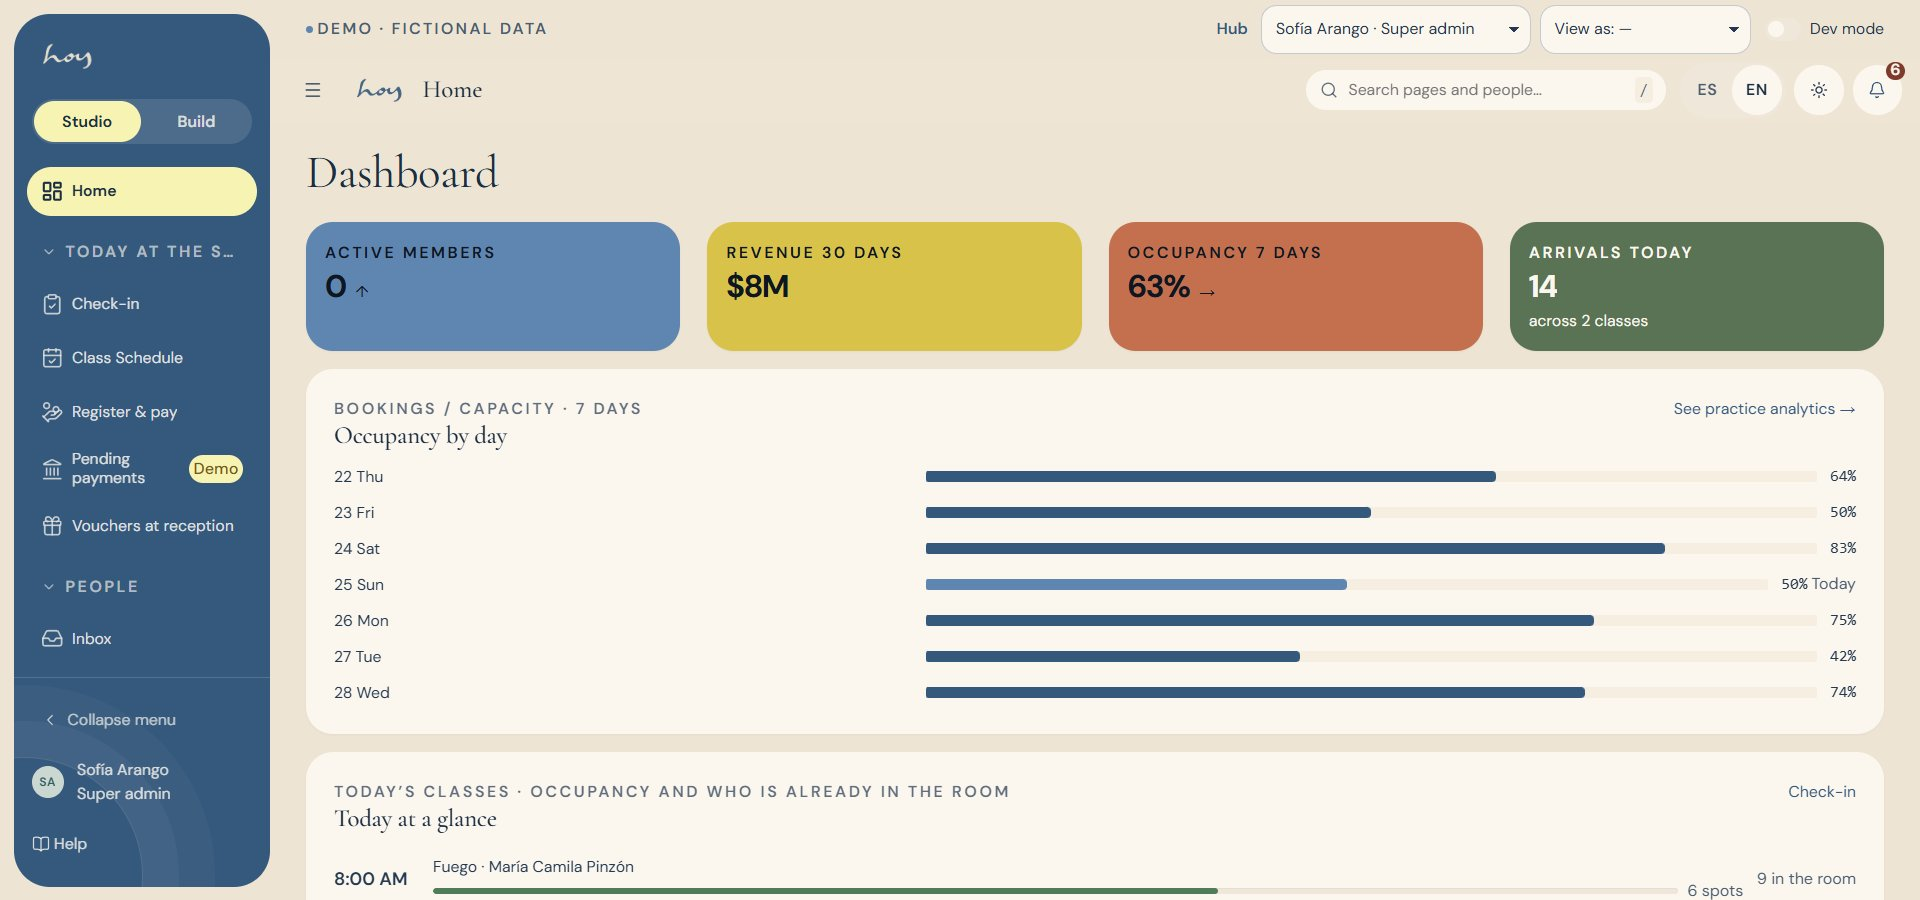
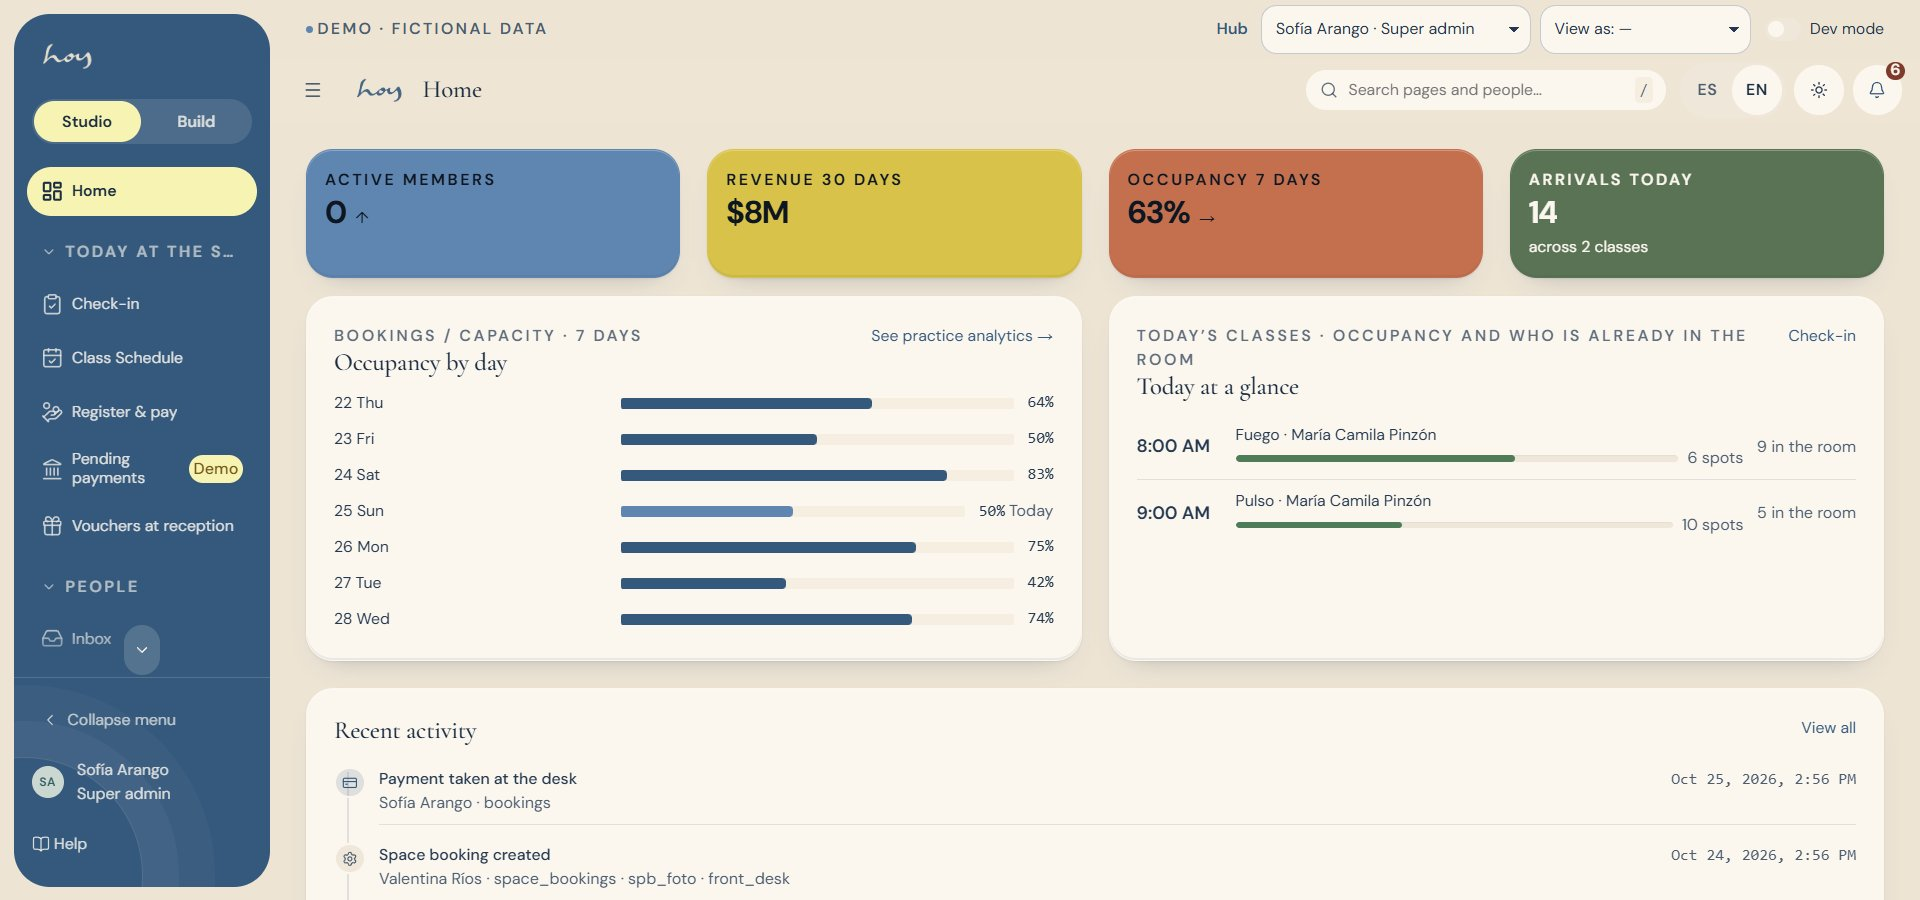
feat(shell): menu always on screen, no scrollbars, no in-page titles
DesktopShell (S-*, M-*, D-*): icon rail stays visible 600-1023 px (drawer only
on phones); the menu scrolls with a fade and chevrons instead of a scrollbar;
page-head titles and subtitles visually hidden since the top bar names the page.
Changelog 0165.

diff --git a/src/components/template/DesktopShell/DesktopShell.tsx b/src/components/template/DesktopShell/DesktopShell.tsx
@@ -1,4 +1,4 @@
-import { useCallback, useEffect, useLayoutEffect, useMemo, useId, useRef, useState, type ReactNode } from 'react';
+import { useCallback, useEffect, useLayoutEffect, useMemo, useId, useRef, useState, type ReactNode, type RefObject } from 'react';
 import { Link, NavLink, matchPath, useLocation } from 'react-router-dom';
 import type { RouteDef, Surface, NavBadge } from '../../../specs/types';
 import { useI18n } from '../../../i18n/I18nProvider';
@@ -68,16 +68,51 @@ const DEFAULT_FOLDED: Record<string, boolean> = {
 };
 const BADGE_TONE: Record<NavBadge, 'primary' | 'warn'> = { beta: 'primary', preview: 'warn' };
 
-/** True while the viewport is narrower than the drawer breakpoint (900 px). */
-function useNarrow() {
-  const [narrow, setNarrow] = useState(() => (typeof window !== 'undefined' ? window.matchMedia('(max-width: 900px)').matches : false));
+function useMedia(query: string) {
+  const [match, setMatch] = useState(() => (typeof window !== 'undefined' ? window.matchMedia(query).matches : false));
   useEffect(() => {
-    const mq = window.matchMedia('(max-width: 900px)');
-    const on = () => setNarrow(mq.matches);
+    const mq = window.matchMedia(query);
+    const on = () => setMatch(mq.matches);
+    on();
     mq.addEventListener('change', on);
     return () => mq.removeEventListener('change', on);
-  }, []);
-  return narrow;
+  }, [query]);
+  return match;
+}
+
+/**
+ * 0165 · the menu never leaves the screen on a tablet or a laptop: below 1024 px it is the icon rail (the ☰ opens the
+ * full column over the page); only a phone (< 600 px) hides it behind the ☰ as a drawer.
+ */
+function useShellMode() {
+  const phone = useMedia('(max-width: 599.98px)');
+  const compact = useMedia('(max-width: 1023.98px)');
+  return { phone, tablet: compact && !phone, overlay: compact };
+}
+
+/**
+ * 0165 · no scrollbar on the menu, in any state: the list still scrolls (wheel, touch, keyboard focus) and a soft fade
+ * plus a small chevron appear only at an edge that hides more items; the chevron scrolls one page that way.
+ */
+function useScrollEdges(ref: RefObject<HTMLElement>, deps: unknown[]) {
+  const [edges, setEdges] = useState({ up: false, down: false });
+  useEffect(() => {
+    const el = ref.current;
+    if (!el) return;
+    const measure = () => {
+      const up = el.scrollTop > 2, down = el.scrollTop + el.clientHeight < el.scrollHeight - 2;
+      setEdges((p) => (p.up === up && p.down === down ? p : { up, down }));
+    };
+    measure();
+    el.addEventListener('scroll', measure, { passive: true });
+    const ro = new ResizeObserver(measure);
+    ro.observe(el);
+    for (const child of el.children) ro.observe(child);
+    return () => { el.removeEventListener('scroll', measure); ro.disconnect(); };
+    // eslint-disable-next-line react-hooks/exhaustive-deps
+  }, deps);
+  const page = useCallback((dir: 1 | -1) => ref.current?.scrollBy({ top: dir * ref.current.clientHeight * 0.7, behavior: window.matchMedia('(prefers-reduced-motion: reduce)').matches ? 'auto' : 'smooth' }), [ref]);
+  return { edges, page };
 }
 
 /**
@@ -94,7 +129,7 @@ export function DesktopShell({ surfaces, routes, titleKey, children }: DesktopSh
   const { user, role, canDevMode, devMode, setDevMode, hasRole, can } = useSession();
   const { theme, toggleTheme } = useTheme();
   const { pathname } = useLocation();
-  const narrow = useNarrow();
+  const { phone, tablet, overlay } = useShellMode();
   const surfaceKey = surfaces[0] ?? 'desktop';
   const preferenceScope = `${KEY}.v2.${encodeURIComponent(user.id)}.${role}.${surfaceKey}`;
   const collapsedKey = `${preferenceScope}.collapsed`;
@@ -117,13 +152,14 @@ export function DesktopShell({ surfaces, routes, titleKey, children }: DesktopSh
 
   useEffect(() => { setDrawer(false); }, [pathname]);
 
-  const rail = collapsed && !narrow;
+  // A tablet shows the rail until the ☰ opens the full column over the page; a phone shows nothing until then.
+  const rail = tablet ? !drawer : collapsed && !phone;
 
   useEffect(() => {
     const side = sideRef.current;
     if (!side) return;
-    side.inert = narrow && !drawer;
-    if (!narrow || !drawer) return;
+    side.inert = phone && !drawer;
+    if (!overlay || !drawer) return;
     const focusable = () => [...side.querySelectorAll<HTMLElement>('a[href], button:not([disabled])')].filter((el) => el.getClientRects().length);
     focusable()[0]?.focus();
     const onKey = (event: KeyboardEvent) => {
@@ -137,11 +173,11 @@ export function DesktopShell({ surfaces, routes, titleKey, children }: DesktopSh
     };
     side.addEventListener('keydown', onKey);
     return () => side.removeEventListener('keydown', onKey);
-  }, [narrow, drawer]);
+  }, [phone, overlay, drawer]);
 
   const toggleSidebar = useCallback(() => {
-    if (narrow) setDrawer((o) => !o); else setCollapsed((c) => !c);
-  }, [narrow, setCollapsed]);
+    if (overlay) setDrawer((o) => !o); else setCollapsed((c) => !c);
+  }, [overlay, setCollapsed]);
 
   // `[` collapses and expands the column (ignored while typing).
   useEffect(() => {
@@ -151,11 +187,11 @@ export function DesktopShell({ surfaces, routes, titleKey, children }: DesktopSh
       const tag = el?.tagName.toLowerCase();
       if (tag === 'input' || tag === 'textarea' || tag === 'select' || el?.isContentEditable) return;
       e.preventDefault();
-      if (narrow) setDrawer((o) => !o); else setCollapsed((c) => !c);
+      if (overlay) setDrawer((o) => !o); else setCollapsed((c) => !c);
     };
     window.addEventListener('keydown', onKey);
     return () => window.removeEventListener('keydown', onKey);
-  }, [narrow, setCollapsed]);
+  }, [overlay, setCollapsed]);
 
   // 0159: running the studio and building the product are two workspaces. The Build workspace (dev surface) lists only
   // the design-system routes; super admins and developers move between them with the switcher at the top of the sidebar.
@@ -216,11 +252,13 @@ export function DesktopShell({ surfaces, routes, titleKey, children }: DesktopSh
   const inboxItems = useMemo(() => inbox.conversations.map(toSummary), [inbox.conversations]);
   const hasInbox = allowed.some((r) => r.path === '/staff/inbox');
 
-  const sidebarLabel = narrow ? (drawer ? t('core.shell.closeMenu') : t('core.shell.menu')) : collapsed ? t('core.shell.expand') : t('core.shell.collapse');
+  const sidebarLabel = overlay ? (drawer ? t('core.shell.closeMenu') : t('core.shell.menu')) : collapsed ? t('core.shell.expand') : t('core.shell.collapse');
+  const navRef = useRef<HTMLElement>(null);
+  const { edges, page } = useScrollEdges(navRef, [rail, drawer, folded, items.length]);
 
   return (
-    <div className={`deskshell ${rail ? 'is-rail' : ''} ${drawer ? 'is-open' : ''}`}>
-      <aside ref={sideRef} className="deskshell-side" aria-hidden={narrow && !drawer ? true : undefined} aria-label={t('core.shell.sections')}>
+    <div className={`deskshell ${rail ? 'is-rail' : ''} ${drawer ? 'is-open' : ''} ${tablet ? 'is-tablet' : ''}`}>
+      <aside ref={sideRef} className="deskshell-side" aria-hidden={phone && !drawer ? true : undefined} aria-label={t('core.shell.sections')}>
         <div className="deskshell-brand">
           <Link to={homeTo} className="deskshell-mark" title={t('core.nav.home')}><Wordmark height={rail ? 15 : 26} variant="cream" /></Link>
           {!rail && !(canBuild && canStudio) && <span className="deskshell-title">{title}</span>}
@@ -231,7 +269,9 @@ export function DesktopShell({ surfaces, routes, titleKey, children }: DesktopSh
             <Link to="/dev" className={`deskshell-ws ${inBuild ? 'is-on' : ''}`} aria-current={inBuild ? 'page' : undefined}>{t('core.workspace.build')}</Link>
           </nav>
         )}
-        <nav className="deskshell-nav" aria-label={t('core.shell.sections')}>
+        <div className={`deskshell-navwrap ${edges.up ? 'has-up' : ''} ${edges.down ? 'has-down' : ''}`}>
+        {edges.up && <button type="button" className="deskshell-more is-up" onClick={() => page(-1)} aria-label={t('core.shell.moreUp')} title={t('core.shell.moreUp')}><Icon name="chevron-up" size="sm" /></button>}
+        <nav ref={navRef} className="deskshell-nav" aria-label={t('core.shell.sections')}>
           {groups.map((g) => {
             const open = !g || !folded[g];
             const panelId = `${groupId}-${g.replace(/[^a-zA-Z0-9_-]/g, "-")}`;
@@ -271,6 +311,8 @@ export function DesktopShell({ surfaces, routes, titleKey, children }: DesktopSh
             );
           })}
         </nav>
+        {edges.down && <button type="button" className="deskshell-more is-down" onClick={() => page(1)} aria-label={t('core.shell.moreDown')} title={t('core.shell.moreDown')}><Icon name="chevron-down" size="sm" /></button>}
+        </div>
         <div className="deskshell-foot">
           <button
             type="button" className="deskshell-collapse" onClick={() => setCollapsed((c) => !c)}
@@ -308,7 +350,7 @@ export function DesktopShell({ surfaces, routes, titleKey, children }: DesktopSh
         <TopBar
           brand homeTo={homeTo} title={current ? (current.nav ? t(items.find((i) => i.route === current)?.labelKey ?? current.nav.labelKey) : bi(current.spec.name)) : title}
           code={devMode ? current?.spec.code : undefined}
-          leading={<button ref={menuRef} type="button" className="topbar-lead" onClick={toggleSidebar} aria-label={sidebarLabel} aria-expanded={narrow ? drawer : !rail} title={sidebarLabel}>☰</button>}
+          leading={<button ref={menuRef} type="button" className="topbar-lead" onClick={toggleSidebar} aria-label={sidebarLabel} aria-expanded={overlay ? drawer : !rail} title={sidebarLabel}>☰</button>}
           center={<GlobalSearch items={searchItems} />}
           actions={
             <>

diff --git a/src/components/template/DesktopShell/DesktopShell.css b/src/components/template/DesktopShell/DesktopShell.css
@@ -62,7 +62,8 @@
 
 @media (max-width: 1439.98px) { .deskshell-col .gsearch-kbd { display: none; } }
 @media (max-width: 720px) { .deskshell-devtoggle .toggle-label { display: none; } .deskshell-demolabel { display: none; } }
-@media (max-width: 900px) {
+/* 0165 · only a phone hides the menu behind the ☰ (was every width up to 900 px; tablets now keep the rail) */
+@media (max-width: 599.98px) {
   .deskshell, .deskshell.is-rail { grid-template-columns: 1fr; }
   .deskshell-side { position: fixed; inset: 0 auto 0 0; width: min(20rem, 85vw); z-index: 50; transform: translateX(-100%); transition: transform var(--dur-base) var(--ease-out); box-shadow: var(--shadow-raised); }
   /* the drawer is always the full column, never the rail */
@@ -134,8 +135,36 @@
 .deskshell-col .topbar-page { font-family: var(--font-editorial); font-size: var(--fs-xl); font-weight: var(--fw-medium); }
 .deskshell-col .topbar-page::before { display: none; }
 .deskshell-iconbtn { border-color: transparent; background: var(--color-surface); box-shadow: none; }
-@media (max-width: 900px) {
+@media (max-width: 599.98px) {
   .deskshell-side { margin: 0; top: 0; height: 100vh; border-radius: 0 var(--r-lg) var(--r-lg) 0; }
   @supports (height: 100dvh) { .deskshell-side { height: 100dvh; } }
-}.deskshell.is-rail { grid-template-columns: calc(var(--w-rail) + var(--sp-md)) minmax(0, 1fr); }
-@media (max-width: 900px) { .deskshell.is-rail { grid-template-columns: 1fr; } }.deskshell-nav { scrollbar-width: thin; scrollbar-color: color-mix(in srgb, var(--brand-white) 30%, transparent) transparent; }
+}
+.deskshell.is-rail { grid-template-columns: calc(var(--w-rail) + var(--sp-md)) minmax(0, 1fr); }
+@media (max-width: 599.98px) { .deskshell.is-rail { grid-template-columns: 1fr; } }
+
+/* 0165 · tablet (600–1023 px): the rail stays in its column; the ☰ lays the full menu over the page with a scrim */
+@media (min-width: 600px) and (max-width: 1023.98px) {
+  .deskshell.is-tablet { grid-template-columns: calc(var(--w-rail) + var(--sp-md)) minmax(0, 1fr); }
+  .deskshell.is-tablet .deskshell-col { grid-column: 2; }
+  .deskshell.is-tablet .deskshell-collapse { display: none; }
+  .deskshell.is-tablet.is-open .deskshell-side { position: fixed; top: 0; left: 0; z-index: 50; width: min(20rem, 85vw); box-shadow: var(--shadow-raised); }
+  .deskshell.is-tablet.is-open .deskshell-scrim { display: block; position: fixed; inset: 0; background: var(--color-scrim); z-index: 40; }
+}
+
+/* 0165 · the top bar already names the page, so the in-page title and its subtitle leave the screen (they stay for
+   screen readers and the heading outline). A page head that also holds actions keeps them, right-aligned; one with
+   nothing else becomes fully visually hidden, so it takes no space and no gap. */
+.deskshell-main .page-head :is(h1, h1 + p, h1 ~ p.muted) { position: absolute; width: 1px; height: 1px; padding: 0; margin: -1px; overflow: hidden; clip: rect(0, 0, 0, 0); white-space: nowrap; border: 0; }
+.deskshell-main .page-head { justify-content: flex-end; margin-bottom: 0; }
+.deskshell-main .page-head:not(:has(button, a[href], select, input, [role="tablist"], .badge)) { position: absolute; width: 1px; height: 1px; margin: -1px; overflow: hidden; clip: rect(0, 0, 0, 0); }
+/* 0165 · the menu scrolls without a scrollbar: a fade and a chevron show only at an edge that hides more items */
+.deskshell-navwrap { position: relative; flex: 1 1 auto; min-height: 0; display: flex; flex-direction: column; }
+.deskshell-nav { scrollbar-width: none; overflow-x: hidden; }
+.deskshell-nav::-webkit-scrollbar { display: none; }
+.deskshell-navwrap.has-down .deskshell-nav { -webkit-mask-image: linear-gradient(to bottom, #000 calc(100% - var(--sp-3xl)), transparent); mask-image: linear-gradient(to bottom, #000 calc(100% - var(--sp-3xl)), transparent); }
+.deskshell-navwrap.has-up .deskshell-nav { -webkit-mask-image: linear-gradient(to top, #000 calc(100% - var(--sp-3xl)), transparent); mask-image: linear-gradient(to top, #000 calc(100% - var(--sp-3xl)), transparent); }
+.deskshell-navwrap.has-up.has-down .deskshell-nav { -webkit-mask-image: linear-gradient(to bottom, transparent, #000 var(--sp-3xl), #000 calc(100% - var(--sp-3xl)), transparent); mask-image: linear-gradient(to bottom, transparent, #000 var(--sp-3xl), #000 calc(100% - var(--sp-3xl)), transparent); }
+.deskshell-more { position: absolute; left: 50%; z-index: 2; display: inline-grid; place-items: center; inline-size: var(--sp-2xl); block-size: var(--sp-2xl); padding: 0; border: 0; border-radius: var(--r-full); background: color-mix(in srgb, var(--brand-white) 16%, transparent); color: var(--brand-white); cursor: pointer; transform: translateX(-50%); transition: background-color var(--dur-fast); }
+.deskshell-more:hover { background: color-mix(in srgb, var(--brand-white) 26%, transparent); }
+.deskshell-more.is-up { top: var(--sp-2xs); }
+.deskshell-more.is-down { bottom: var(--sp-2xs); }

diff --git a/src/components/atom/Icon/Icon.tsx b/src/components/atom/Icon/Icon.tsx
@@ -2,7 +2,7 @@ import type { CSSProperties, ReactNode } from 'react';
 import {
   Activity, AppWindow, ArrowDown, ArrowLeft, ArrowLeftRight, ArrowRight, ArrowUp, ArrowUpDown, AtSign, Banknote, Bell,
   BellRing, BookOpen, BookOpenCheck, Building2, Cake, Calendar, CalendarCheck, CalendarClock, CalendarDays, CalendarPlus,
-  Camera, ChartColumn, Check, ChevronDown, ChevronLeft, ChevronRight, CircleAlert, CircleArrowUp, CircleCheck,
+  Camera, ChartColumn, Check, ChevronDown, ChevronUp, ChevronLeft, ChevronRight, CircleAlert, CircleArrowUp, CircleCheck,
   CircleEllipsis, CircleHelp, CircleUser, CircleX, ClipboardCheck, Clock, Code, Coins, Component, Contact, CreditCard,
   DoorOpen, Download, Ellipsis, FileLock, FingerprintPattern, FileText, Flag, Flame, Frame, Funnel, Gauge, Gift, Globe, HandCoins, HeartPulse,
   History, House, IdCard, Image, Inbox, Info, Landmark, Languages, Layers, LayoutDashboard, LayoutGrid, Library, Link,
@@ -36,7 +36,7 @@ const ICONS = {
   download: Download, 'calendar-plus': CalendarPlus, share: Share2, link: Link, 'log-out': LogOut, trash: Trash2, close: X,
   pause: Pause, undo: Undo2, edit: SquarePen, play: Play, 'arrow-right': ArrowRight, 'arrow-left': ArrowLeft,
   'arrow-up': ArrowUp, 'arrow-down': ArrowDown, sort: ArrowUpDown, 'chevron-right': ChevronRight, 'chevron-left': ChevronLeft,
-  'chevron-down': ChevronDown, 'list-plus': ListPlus, waitlist: ListOrdered, qr: QrCode,
+  'chevron-down': ChevronDown, 'chevron-up': ChevronUp, 'list-plus': ListPlus, waitlist: ListOrdered, qr: QrCode,
   // 0041: copy a value, reveal / hide a secret, rotate a key
   copy: Copy, eye: Eye, 'eye-off': EyeOff, 'refresh-cw': RefreshCw,
   // settings groups and sections (M-08)

diff --git a/src/components/template/DesktopShell/DesktopShell.meta.ts b/src/components/template/DesktopShell/DesktopShell.meta.ts
@@ -14,8 +14,10 @@ export default defineMeta({
     'rail / collapsed (56 px, tooltips al hover y foco)',
     'group folded / group open (navegar abre el grupo activo; también se puede plegar)',
     'dev-mode (códigos de spec visibles + chip de spec en la barra)',
-    'mobile-closed (cajón oculto)',
-    'mobile-open (cajón + scrim)',
+    'tablet (600–1023 px, 0165): the rail always on screen; ☰ opens the full menu over the page with a scrim',
+    'phone-closed (< 600 px, drawer hidden) / phone-open (drawer + scrim)',
+    'menu overflow (0165): no scrollbar in any state; a fade plus an up/down chevron appear only at an edge that hides items',
+    'page title (0165): the top bar names the page; in-page h1 + subtitle are visually hidden (kept for screen readers)',
     'inbox bell: none unread / unread count / popover open (roles con /staff/inbox)',
     'nav item with badge: Beta (primary) / Demo (warn, demo data or prototype); the title explains it; in the rail it moves into the tooltip',
     'workspace switcher: Estudio active / Desarrollo active (only when the role can open both; hidden in the rail)',

diff --git a/src/i18n/core.ts b/src/i18n/core.ts
@@ -159,6 +159,8 @@ export const coreStrings: StringTable = {
   'core.shell.collapseHint': { es: 'Atajo: [', en: 'Shortcut: [' },
   'core.shell.menu': { es: 'Menú', en: 'Menu' },
   'core.shell.closeMenu': { es: 'Cerrar menú', en: 'Close menu' },
+  'core.shell.moreUp': { es: 'Ver opciones de arriba', en: 'Show items above' },
+  'core.shell.moreDown': { es: 'Ver más opciones', en: 'Show more items' },
   'core.shell.sections': { es: 'Secciones', en: 'Sections' },
   'core.shell.group.collapse': { es: 'Plegar {group}', en: 'Collapse {group}' },
   'core.shell.group.expand': { es: 'Desplegar {group}', en: 'Expand {group}' },
